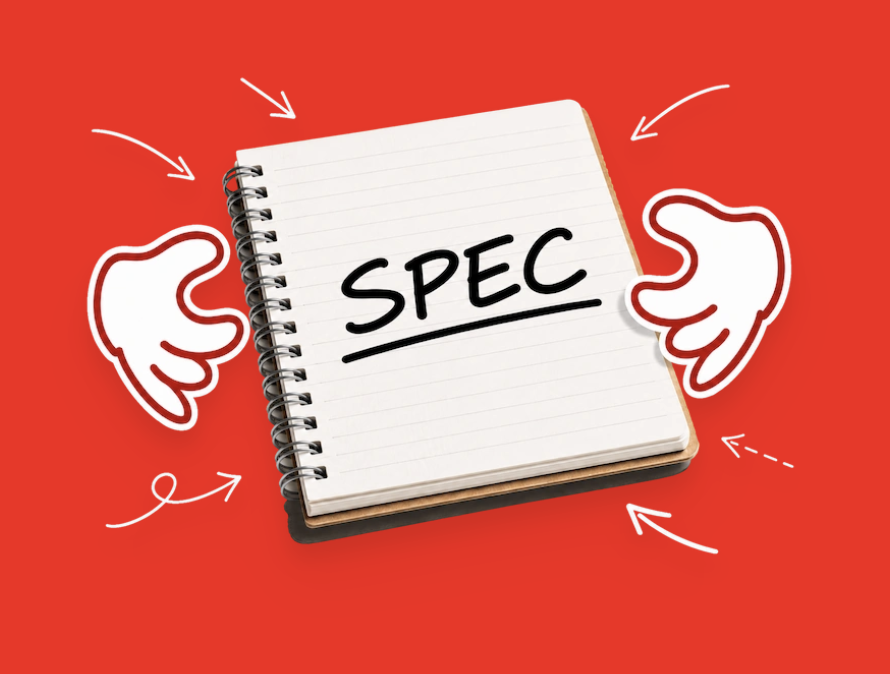
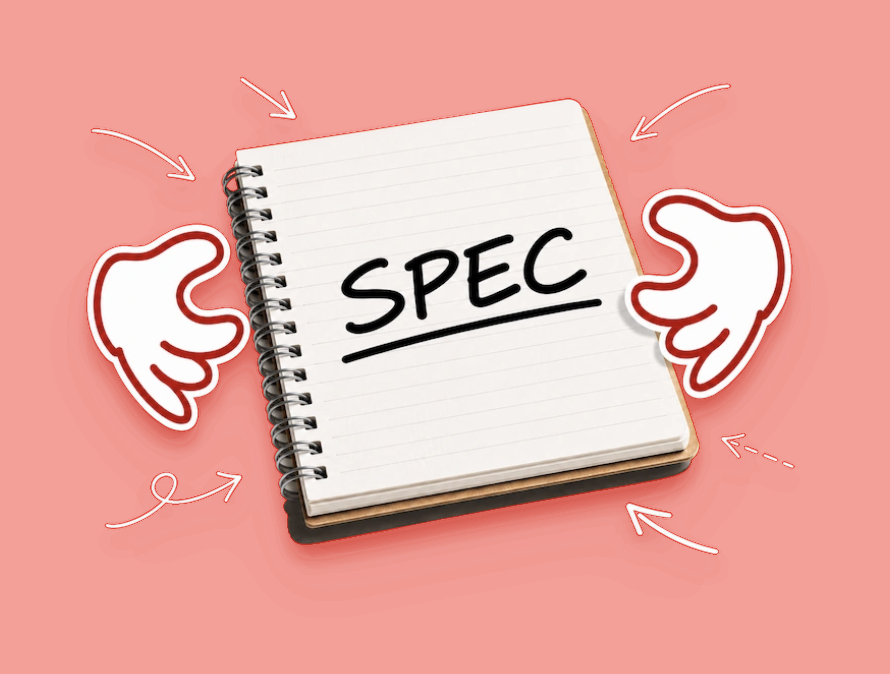
fix(landing): remove red bg from spec illustration, drop shadow

diff --git a/web/src/components/LandingPage.tsx b/web/src/components/LandingPage.tsx
@@ -396,7 +396,7 @@ export default function LandingPage({ onGoToApp }: LandingPageProps) {
               <img
                 src="/spec-illustration.png"
                 alt="SPEC"
-                className="w-full h-auto drop-shadow-2xl hover:scale-[1.02] transition-transform duration-700 object-contain"
+                className="w-full h-auto hover:scale-[1.02] transition-transform duration-700 object-contain"
               />
             </div>
 
